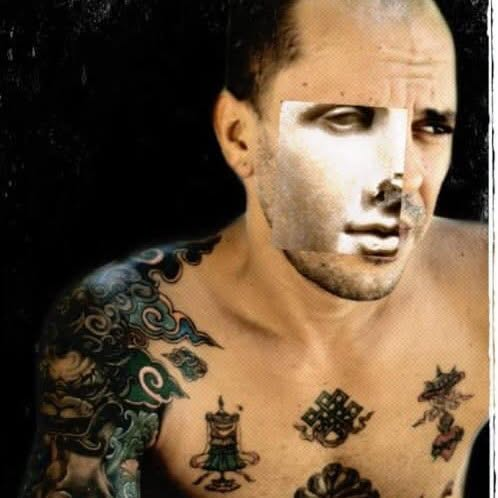
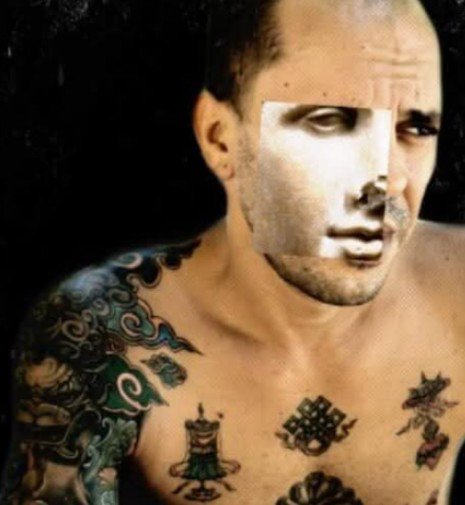
Add Person/Patent structured data and real portrait to fight shadow-ban ambiguity
Adds JSON-LD (Patent x2 + CreativeWork on profil.html, Person gender/image/
sameAs on a-propos.html) and Open Graph tags pointing at the real portrait
photo, so search engines have an unambiguous, human, canonical identity
for the domain instead of relying on a secondary Facebook page.

diff --git a/profil.html b/profil.html
@@ -5,16 +5,62 @@
 <meta name="viewport" content="width=device-width, initial-scale=1.0">
 <title>Profil documentaire — Anibal Amiot | Inventeur</title>
 <meta name="description" content="Profil documentaire d'Anibal Amiot : détail des brevets français (FR2840678, FR2865054) et des 63 dessins et modèles déposés à l'INPI, couvrant les carrés d'ordre 12 de La Livrée d'Hermès.">
-<meta property="og:title" content="Profil documentaire — Anibal Amiot | Inventeur">
+<meta property="og:title" content="Anibal Amiot — Profil documentaire, Inventeur">
 <meta property="og:description" content="Profil documentaire d'Anibal Amiot : détail des brevets français (FR2840678, FR2865054) et des 63 dessins et modèles déposés à l'INPI, couvrant les carrés d'ordre 12 de La Livrée d'Hermès.">
-<meta property="og:image" content="https://anibal-amiot.com/assets/title-logo-footer-og.png">
+<meta property="og:image" content="https://anibal-amiot.com/assets/anibal-amiot-portrait.jpg">
 <meta property="og:url" content="https://anibal-amiot.com/profil.html">
 <meta property="og:type" content="profile">
+<meta property="profile:first_name" content="Anibal">
+<meta property="profile:last_name" content="Amiot">
 <link rel="canonical" href="https://anibal-amiot.com/profil.html">
 <meta name="twitter:card" content="summary_large_image">
-<meta name="twitter:title" content="Profil documentaire — Anibal Amiot | Inventeur">
+<meta name="twitter:title" content="Anibal Amiot — Profil documentaire, Inventeur">
 <meta name="twitter:description" content="Profil documentaire d'Anibal Amiot : détail des brevets français (FR2840678, FR2865054) et des 63 dessins et modèles déposés à l'INPI, couvrant les carrés d'ordre 12 de La Livrée d'Hermès.">
-<meta name="twitter:image" content="https://anibal-amiot.com/assets/title-logo-footer-og.png">
+<meta name="twitter:image" content="https://anibal-amiot.com/assets/anibal-amiot-portrait.jpg">
+<script type="application/ld+json">
+{
+  "@context": "https://schema.org",
+  "@graph": [
+    {
+      "@type": "Patent",
+      "@id": "https://anibal-amiot.com/profil.html#brevet-fr2840678",
+      "name": "Arme transformable pouvant convenir à la pratique de plusieurs arts martiaux",
+      "identifier": "FR2840678",
+      "inventor": { "@id": "https://anibal-amiot.com/a-propos.html#anibal-amiot" },
+      "priorityDate": "2002-06-05",
+      "filingDate": "2002-06-05",
+      "datePublished": "2003-12-12",
+      "dateGranted": "2006-09-22",
+      "countryCode": "FR",
+      "url": "https://anibal-amiot.com/profil.html#brevet-fr2840678"
+    },
+    {
+      "@type": "Patent",
+      "@id": "https://anibal-amiot.com/profil.html#brevet-fr2865054",
+      "name": "Procédé et dispositif pour la composition automatisée d'un motif symbolique exprimant une relation mathématique",
+      "identifier": "FR2865054",
+      "inventor": { "@id": "https://anibal-amiot.com/a-propos.html#anibal-amiot" },
+      "filingDate": "2004-01-09",
+      "datePublished": "2005-07-15",
+      "dateGranted": "2008-07-04",
+      "countryCode": "FR",
+      "description": "Précurseur direct du système de calques développé dans La Livrée d'Hermès.",
+      "url": "https://anibal-amiot.com/profil.html#brevet-fr2865054"
+    },
+    {
+      "@type": "CreativeWork",
+      "@id": "https://anibal-amiot.com/profil.html#dm20193057",
+      "name": "Dessins et modèles — carrés d'ordre 12",
+      "creator": { "@id": "https://anibal-amiot.com/a-propos.html#anibal-amiot" },
+      "identifier": { "@type": "PropertyValue", "propertyID": "Numéro d'enregistrement (INPI)", "value": "20193057" },
+      "dateCreated": "2019-07-04",
+      "numberOfItems": 63,
+      "description": "63 dessins et modèles couvrant les principaux carrés d'ordre 12, socle géométrique de La Livrée d'Hermès.",
+      "url": "https://anibal-amiot.com/profil.html#dm20193057"
+    }
+  ]
+}
+</script>
 <style>
   :root{
     --bg:#000; --panel:#0a0a0a; --white:#f2f2f0; --dim:#6b6b6b;
@@ -151,13 +197,13 @@
 
     <div class="profile-section">
       <h2>Brevets</h2>
-      <div class="patent-entry">
+      <div class="patent-entry" id="brevet-fr2840678">
         <p class="patent-title">Brevet <span class="num">FR2840678</span> — Arme transformable pouvant convenir à la pratique de plusieurs arts martiaux</p>
         <p class="patent-meta">Dépôt (priorité) : FR0206929, 5 juin 2002<br>
         Publication : FR2840678A1, 12 décembre 2003<br>
         Délivrance : FR2840678B1, 22 septembre 2006</p>
       </div>
-      <div class="patent-entry">
+      <div class="patent-entry" id="brevet-fr2865054">
         <p class="patent-title">Brevet <span class="num">FR2865054</span> — Procédé et dispositif pour la composition automatisée d'un motif symbolique exprimant une relation mathématique</p>
         <p class="patent-meta">Dépôt : FR0400189, 9 janvier 2004<br>
         Publication : FR2865054A1, 15 juillet 2005<br>
@@ -166,7 +212,7 @@
       </div>
     </div>
 
-    <div class="profile-section">
+    <div class="profile-section" id="dm20193057">
       <h2>Dessins et modèles</h2>
       <p class="profile-text">63 dessins et modèles déposés le 4 juillet 2019 sous le numéro d'enregistrement 20193057, couvrant les principaux carrés d'ordre 12 — le socle géométrique de La Livrée d'Hermès.</p>
     </div>

diff --git a/a-propos.html b/a-propos.html
@@ -7,14 +7,16 @@
 <meta name="description" content="Anibal Amiot, auteur, éditeur, concepteur et artiste, et son livre La Livrée d'Hermès : un précis d'arithmogéométrie au croisement de la philosophie, des mathématiques et des sciences appliquées.">
 <meta property="og:title" content="À propos — Anibal Amiot | Auteur de La Livrée d'Hermès">
 <meta property="og:description" content="Anibal Amiot, auteur, éditeur, concepteur et artiste, et son livre La Livrée d'Hermès : un précis d'arithmogéométrie au croisement de la philosophie, des mathématiques et des sciences appliquées.">
-<meta property="og:image" content="https://anibal-amiot.com/assets/title-logo-footer-og.png">
+<meta property="og:image" content="https://anibal-amiot.com/assets/anibal-amiot-portrait.jpg">
 <meta property="og:url" content="https://anibal-amiot.com/a-propos.html">
 <meta property="og:type" content="profile">
+<meta property="profile:first_name" content="Anibal">
+<meta property="profile:last_name" content="Amiot">
 <link rel="canonical" href="https://anibal-amiot.com/a-propos.html">
 <meta name="twitter:card" content="summary_large_image">
 <meta name="twitter:title" content="À propos — Anibal Amiot | Auteur de La Livrée d'Hermès">
 <meta name="twitter:description" content="Anibal Amiot, auteur, éditeur, concepteur et artiste, et son livre La Livrée d'Hermès : un précis d'arithmogéométrie au croisement de la philosophie, des mathématiques et des sciences appliquées.">
-<meta name="twitter:image" content="https://anibal-amiot.com/assets/title-logo-footer-og.png">
+<meta name="twitter:image" content="https://anibal-amiot.com/assets/anibal-amiot-portrait.jpg">
 <style>
   :root{
     --bg:#000; --panel:#0a0a0a; --white:#f2f2f0; --dim:#6b6b6b;
@@ -128,13 +130,16 @@
       "@id": "https://anibal-amiot.com/a-propos.html#anibal-amiot",
       "name": "Anibal Amiot",
       "alternateName": ["Anibal Edelbert Amiot", "Anibal Edelberto Amiot"],
+      "gender": "Male",
       "jobTitle": ["Auteur", "Éditeur", "Concepteur", "Artiste", "Inventeur"],
       "description": "Anibal Amiot est auteur, éditeur, concepteur, artiste et inventeur. Il est l'auteur de La Livrée d'Hermès, un livre d'arithmogéométrie qui se tient au croisement de la philosophie, des mathématiques et des sciences appliquées.",
       "url": "https://anibal-amiot.com/a-propos.html",
+      "image": "https://anibal-amiot.com/assets/anibal-amiot-portrait.jpg",
       "sameAs": [
         "https://instagram.com/agnimed",
         "https://t.me/Anibalamiot",
-        "https://linkedin.com/in/anibalamiot"
+        "https://linkedin.com/in/anibalamiot",
+        "https://facebook.com/anibaledelbertamiot"
       ]
     },
     {
